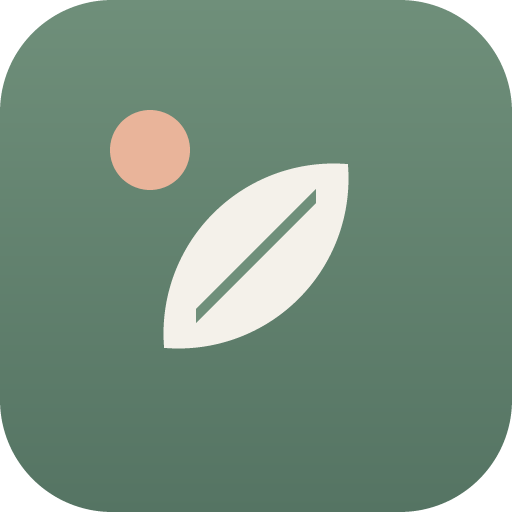
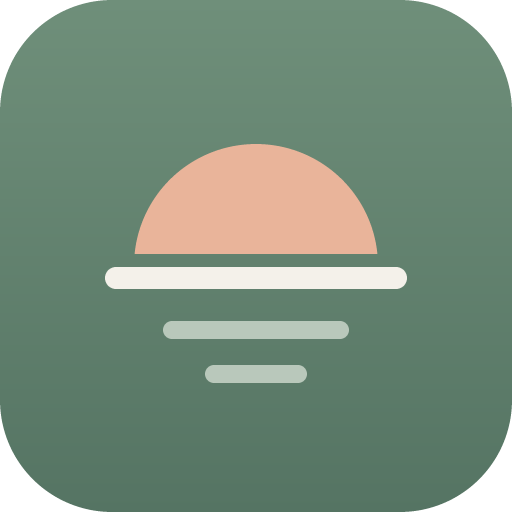
Símbolo sol no horizonte (respiro)

Changed region(s): [[0.1875, 0.1875, 0.8125, 0.75]]

diff --git a/index.html b/index.html
@@ -22,7 +22,7 @@
   <div id="app" class="app">
     <header class="topbar">
       <button id="btn-back" class="icon-btn back-btn" type="button" aria-label="Voltar para a lista">←</button>
-      <h1 class="brand"><span class="brand-mark" aria-hidden="true">🌿</span>Meu Diário</h1>
+      <h1 class="brand"><span class="brand-mark" aria-hidden="true"><svg class="mark" viewBox="0 0 24 24"><path class="mark-sun" d="M6.2 12.6a5.8 5.8 0 0 1 11.6 0z"/><path class="mark-line" d="M4 14.8h16M7.2 17.8h9.6"/></svg></span>Meu Diário</h1>
       <span id="sync-status" class="sync-status" role="status" aria-live="polite"></span>
       <button id="btn-settings" class="icon-btn" type="button" aria-label="Configurações" title="Configurações">⚙</button>
     </header>
@@ -81,8 +81,9 @@
   <!-- Tela de login / cadastro -->
   <div id="auth-screen" class="auth-screen" hidden>
     <div class="auth-card">
-      <div class="auth-moon" aria-hidden="true">🌿</div>
+      <div class="auth-moon" aria-hidden="true"><svg class="mark" viewBox="0 0 24 24"><path class="mark-sun" d="M6.2 12.6a5.8 5.8 0 0 1 11.6 0z"/><path class="mark-line" d="M4 14.8h16M7.2 17.8h9.6"/></svg></div>
       <h2 class="auth-title">Meu Diário</h2>
+      <p class="auth-tagline">Um respiro no seu dia.</p>
       <p class="muted">Entre para guardar suas anotações na nuvem e vê-las no celular, tablet e computador.</p>
       <div class="tabs" role="tablist">
         <button id="tab-login" class="tab active" type="button" role="tab" aria-selected="true">Entrar</button>

diff --git a/css/styles.css b/css/styles.css
@@ -202,6 +202,12 @@ button { cursor: pointer; -webkit-tap-highlight-color: transparent; }
   background: var(--sage-soft);
   font-size: 1.1rem;
 }
+/* símbolo "sol no horizonte" (respiro) */
+.mark { width: 62%; height: 62%; display: block; }
+.mark-sun { fill: var(--peach); }
+.mark-line { fill: none; stroke: var(--sage); stroke-width: 1.8; stroke-linecap: round; }
+.auth-tagline { margin: -2px 0 10px; font-family: var(--font-read); font-style: italic; color: var(--sage); font-size: 1.05rem; }
+
 .sync-status {
   margin-left: auto;
   font-size: .8rem;
@@ -608,6 +614,7 @@ button { cursor: pointer; -webkit-tap-highlight-color: transparent; }
   background: var(--sage-soft);
   margin-bottom: 14px;
 }
+.auth-moon .mark, .brand-mark .mark { width: 70%; height: 70%; }
 .auth-title { margin: 0 0 6px; font-weight: 800; letter-spacing: -.01em; font-size: 1.8rem; }
 .tabs { display: flex; gap: 4px; background: var(--surface-2); border-radius: 999px; padding: 5px; margin: 20px 0; }
 .tab { flex: 1; min-height: 42px; border: none; background: transparent; border-radius: 999px; font-weight: 750; color: var(--muted); transition: background .25s, color .25s; }

diff --git a/js/app.js b/js/app.js
@@ -6,7 +6,7 @@ import {
   createDictation, dictationSupported, speechSupported, speak, stopSpeaking, formatDictation,
 } from './voice.js';
 
-const APP_VERSION = '1.3.0';
+const APP_VERSION = '1.3.1';
 const SUPABASE_JS = 'https://cdn.jsdelivr.net/npm/@supabase/supabase-js@2.49.4/+esm';
 const CONFIGURED = Boolean(SUPABASE_URL && SUPABASE_ANON_KEY);
 const SAVE_DELAY_MS = 700;
@@ -590,7 +590,7 @@ function renderGreeting() {
   let greet = 'Boa noite';
   let icon = '🌙';
   if (h >= 5 && h < 12) { greet = 'Bom dia'; icon = '🌤'; }
-  else if (h >= 12 && h < 18) { greet = 'Boa tarde'; icon = '🌿'; }
+  else if (h >= 12 && h < 18) { greet = 'Boa tarde'; icon = '☀'; }
   el.greet.textContent = greet;
   el.greetIcon.textContent = icon;
 }

diff --git a/sw.js b/sw.js
@@ -1,6 +1,6 @@
 // Service worker: permite abrir o app sem internet e instalá-lo como aplicativo.
 // IMPORTANTE: ao mudar qualquer arquivo do app, aumente a versão abaixo.
-const CACHE = 'diario-v1.3.0';
+const CACHE = 'diario-v1.3.1';
 const SHELL = [
   './',
   './index.html',

diff --git a/HISTORICO.md b/HISTORICO.md
@@ -6,7 +6,8 @@ do Claude Code saiba o que já foi feito. **Atualize ao final de cada sessão.**
 ---
 
 ## Situação atual (resumo rápido)
-- **Versão:** 1.3.0 (`APP_VERSION` em `js/app.js`, `CACHE = 'diario-v1.3.0'` em `sw.js`)
+- **Versão:** 1.3.1 (`APP_VERSION` em `js/app.js`, `CACHE = 'diario-v1.3.1'` em `sw.js`)
+- **Símbolo:** "sol no horizonte" = **respiro** (escolhido pelo usuário; respiro a qualquer hora, não só no fim do dia).
 - **Visual:** "Calmo e natural" (sálvia/areia/pêssego) — tema padrão claro "Dia"; escuro = "Noite" (floresta).
   O usuário NÃO gostou do "Noite aconchegante" (v1.2.0), que foi substituído.
 - **App:** publicado e conectado à nuvem.
@@ -32,6 +33,13 @@ do Claude Code saiba o que já foi feito. **Atualize ao final de cada sessão.**
 - Exportar em PDF para mostrar na consulta.
 
 ---
+
+## Sessão 1 (continuação) — 05/11/2026 — Símbolo "sol no horizonte" (v1.3.1)
+- Usuário perguntou por que uma planta; mostrei opções dentro do tema e ele escolheu o **sol no horizonte**,
+  com o significado de **respiro** (pode ser no meio do dia, não só no fim).
+- Ícone do app: meio sol pêssego sobre linha de horizonte cor de areia + duas linhas curtas (água calma), fundo sálvia.
+- Topo e tela de login usam o mesmo desenho em SVG embutido (classes `.mark-sun`/`.mark-line`, sem estilo inline
+  por causa do CSP). Login ganhou a frase "Um respiro no seu dia." Saudação da tarde: ☀.
 
 ## Sessão 1 (continuação) — 05/11/2026 — Visual "Calmo e natural" + atualização confiável (v1.3.0)
 - **Bug de atualização corrigido:** o usuário não via a versão nova. Causa: o GitHub Pages manda o navegador
